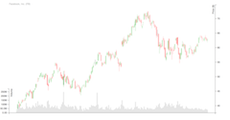
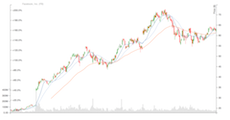
Adding moving averages

diff --git a/examples/plot/plots/index.html b/examples/plot/plots/index.html
@@ -49,6 +49,23 @@
         pointer-events: all;
     }
 
+    .indicator path.line {
+        fill: none;
+        stroke-width: 1;
+    }
+
+    .ma-0 path.line {
+        stroke: #1f77b4;
+    }
+
+    .ma-1 path.line {
+        stroke: #aec7e8;
+    }
+
+    .ma-2 path.line {
+        stroke: #ff7f0e;
+    }
+
     button {
         position: absolute;
         right: 110px;
@@ -86,6 +103,18 @@
             .range([height, height-volumeHeight]);
 
     var candlestick = techan.plot.candlestick()
+            .xScale(x)
+            .yScale(y);
+
+    var sma0 = techan.plot.sma()
+            .xScale(x)
+            .yScale(y);
+
+    var sma1 = techan.plot.sma()
+            .xScale(x)
+            .yScale(y);
+
+    var ema2 = techan.plot.ema()
             .xScale(x)
             .yScale(y);
 
@@ -142,6 +171,18 @@
             .attr("clip-path", "url(#clip)");
 
     svg.append("g")
+            .attr("class", "indicator sma ma-0")
+            .attr("clip-path", "url(#clip)");
+
+    svg.append("g")
+            .attr("class", "indicator sma ma-1")
+            .attr("clip-path", "url(#clip)");
+
+    svg.append("g")
+            .attr("class", "indicator ema ma-2")
+            .attr("clip-path", "url(#clip)");
+
+    svg.append("g")
             .attr("class", "x axis")
             .attr("transform", "translate(0," + height + ")");
 
@@ -183,13 +224,16 @@
             };
         }).sort(function(a, b) { return d3.ascending(accessor.d(a), accessor.d(b)); });
 
-        x.domain(data.map(accessor.d));
-        y.domain(techan.scale.plot.ohlc(accessor, data).domain());
+        x.domain(techan.scale.plot.time(data, accessor).domain());
+        y.domain(techan.scale.plot.ohlc(data, accessor).domain());
         yPercent.domain(techan.scale.plot.percent(y, accessor(data[0])).domain());
-        yVolume.domain(techan.scale.plot.volume(accessor.v, data).domain());
+        yVolume.domain(techan.scale.plot.volume(data, accessor.v).domain());
 
         svg.select("g.candlestick").data([data]).call(candlestick);
         svg.select("g.volume").data([data]).call(volume);
+        svg.select("g.sma.ma-0").data([techan.indicator.sma().period(10)(data)]).call(sma0);
+        svg.select("g.sma.ma-1").data([techan.indicator.sma().period(20)(data)]).call(sma1);
+        svg.select("g.ema.ma-2").data([techan.indicator.ema().period(50)(data)]).call(ema2);
 
         draw();
 
@@ -216,6 +260,9 @@
         // We know the data does not change, a simple refresh that does not perform data joins will suffice.
         svg.select("g.candlestick").call(candlestick.refresh);
         svg.select("g.volume").call(volume.refresh);
+        svg.select("g.sma.ma-0").call(sma0.refresh);
+        svg.select("g.sma.ma-1").call(sma1.refresh);
+        svg.select("g.ema.ma-2").call(ema2.refresh);
     }
 
 </script>

diff --git a/examples/plot/plots/README.md b/examples/plot/plots/README.md
@@ -2,4 +2,5 @@ Plots rendering demo. A sample of what can be created with the available plot ty
 * Candlestick
 * Volume
 * Percentage axis
+* Simple and Exponential Moving Averages
 * Zooming
